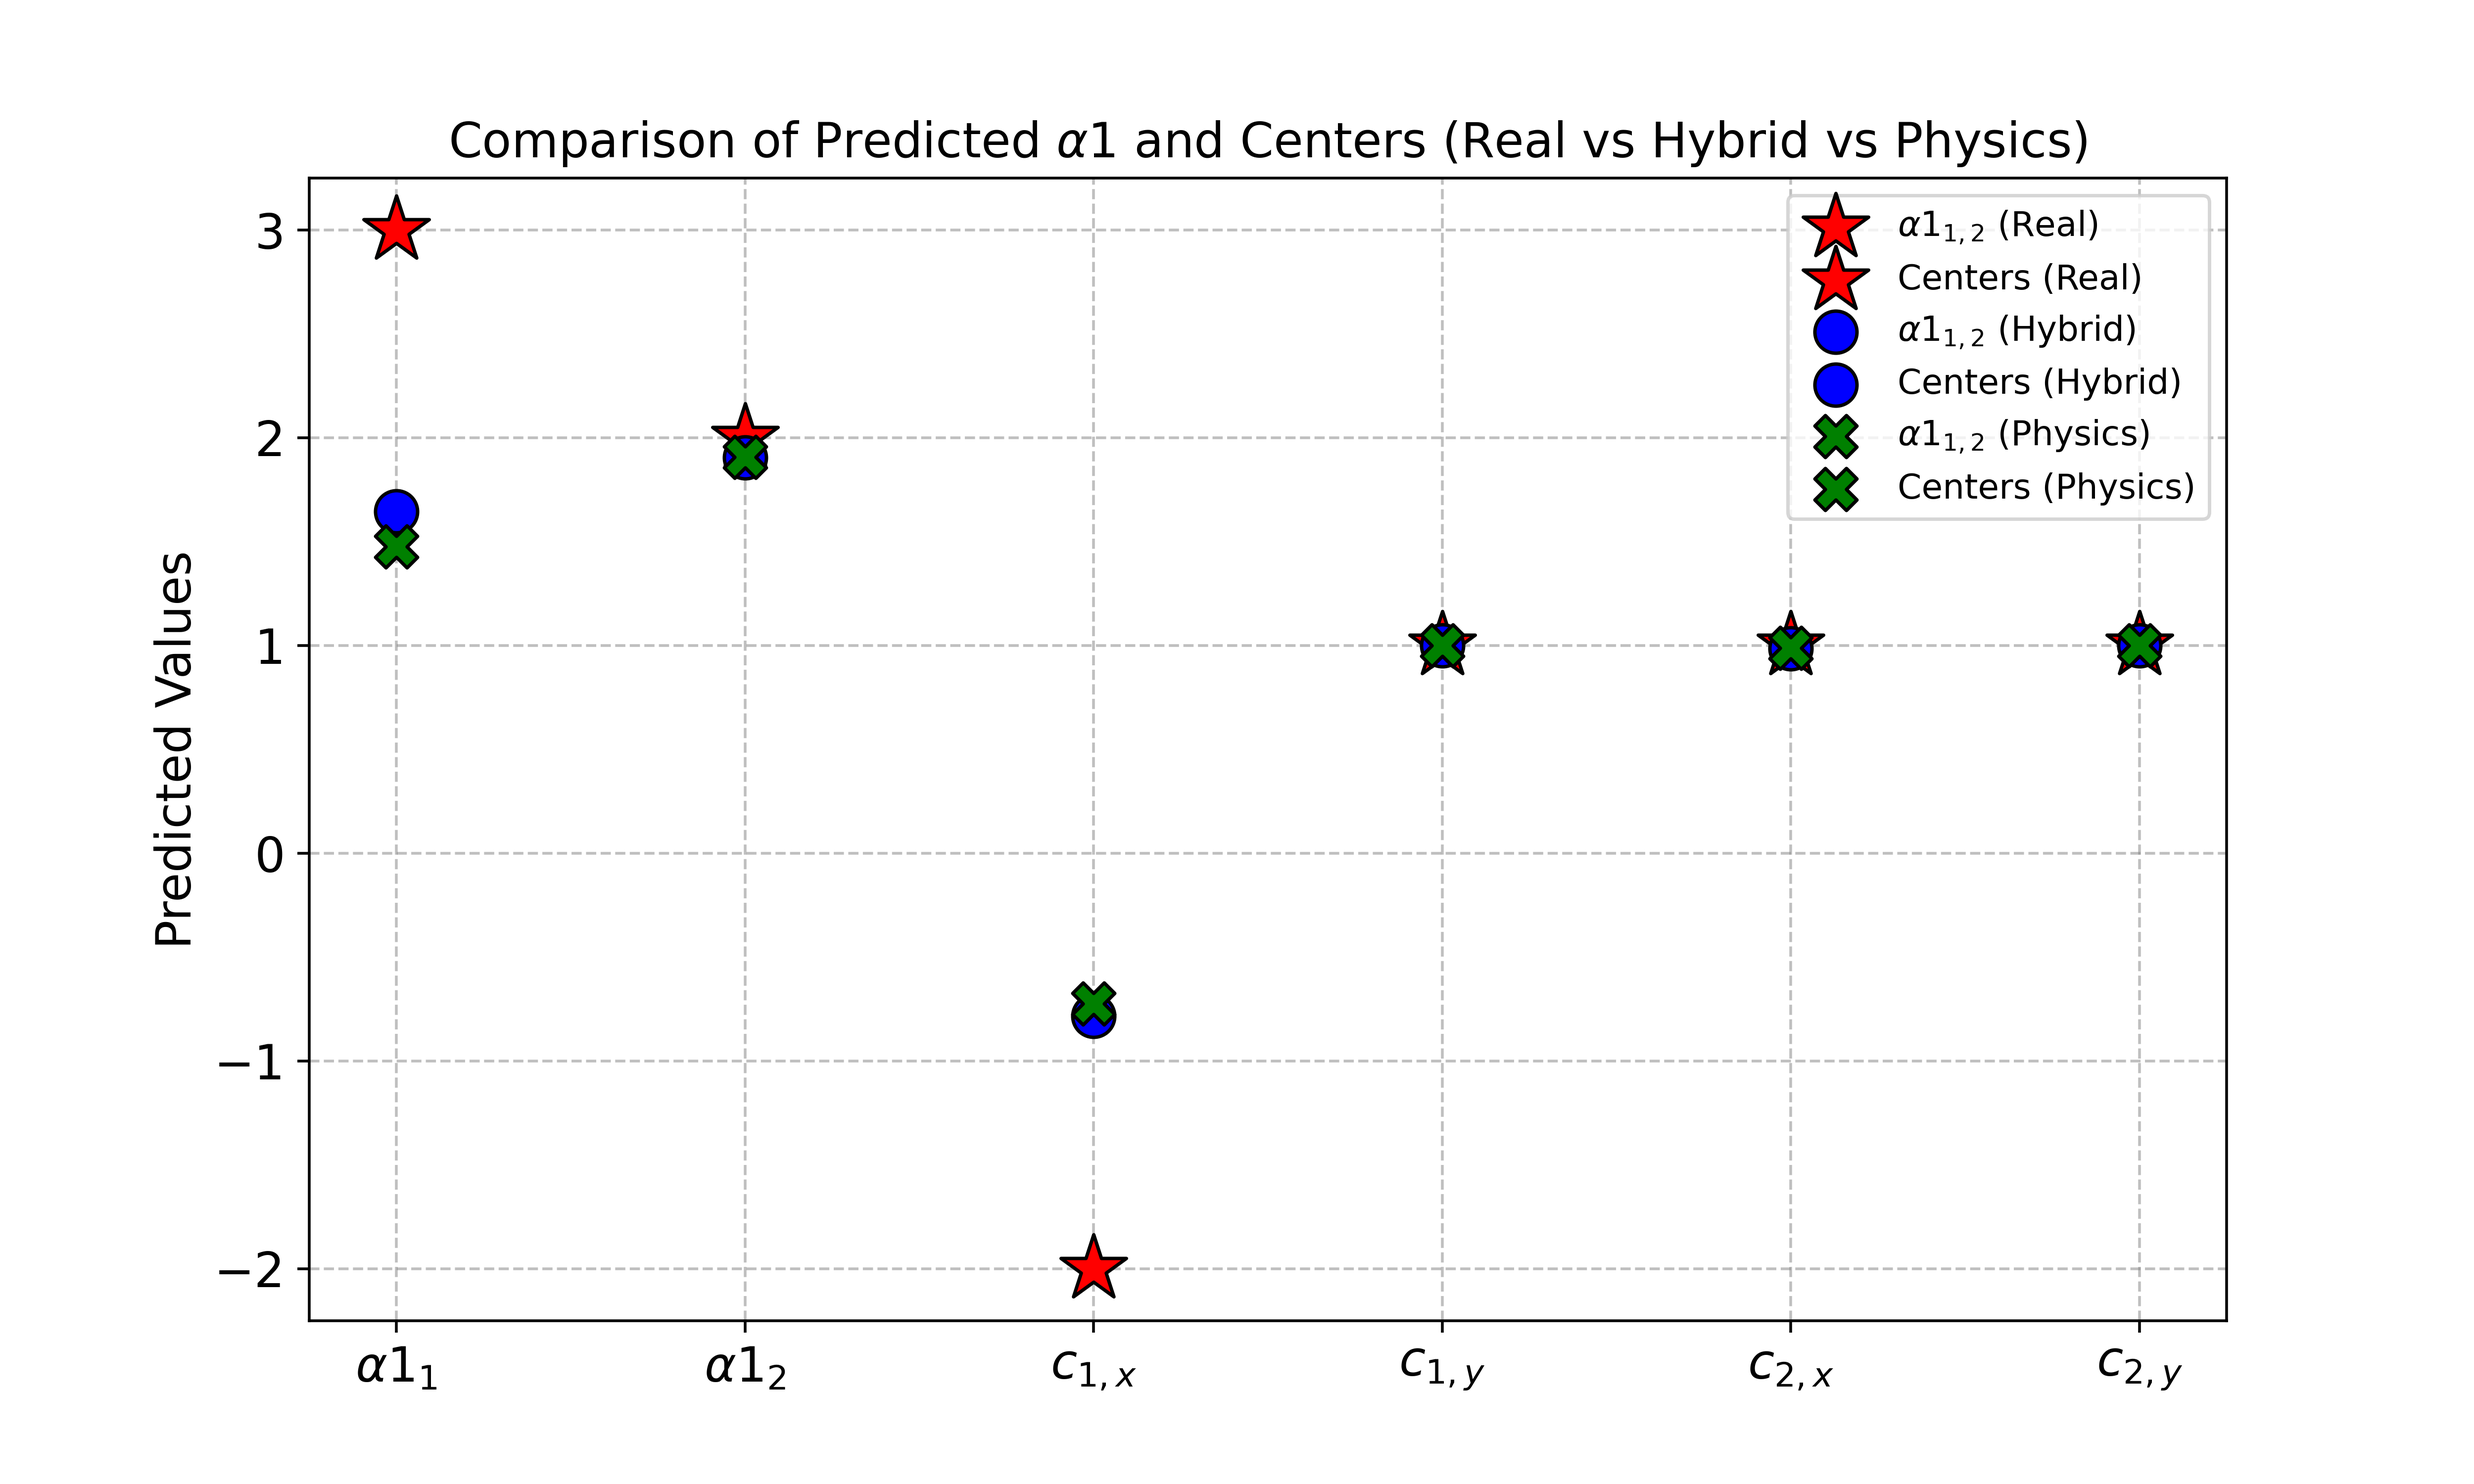
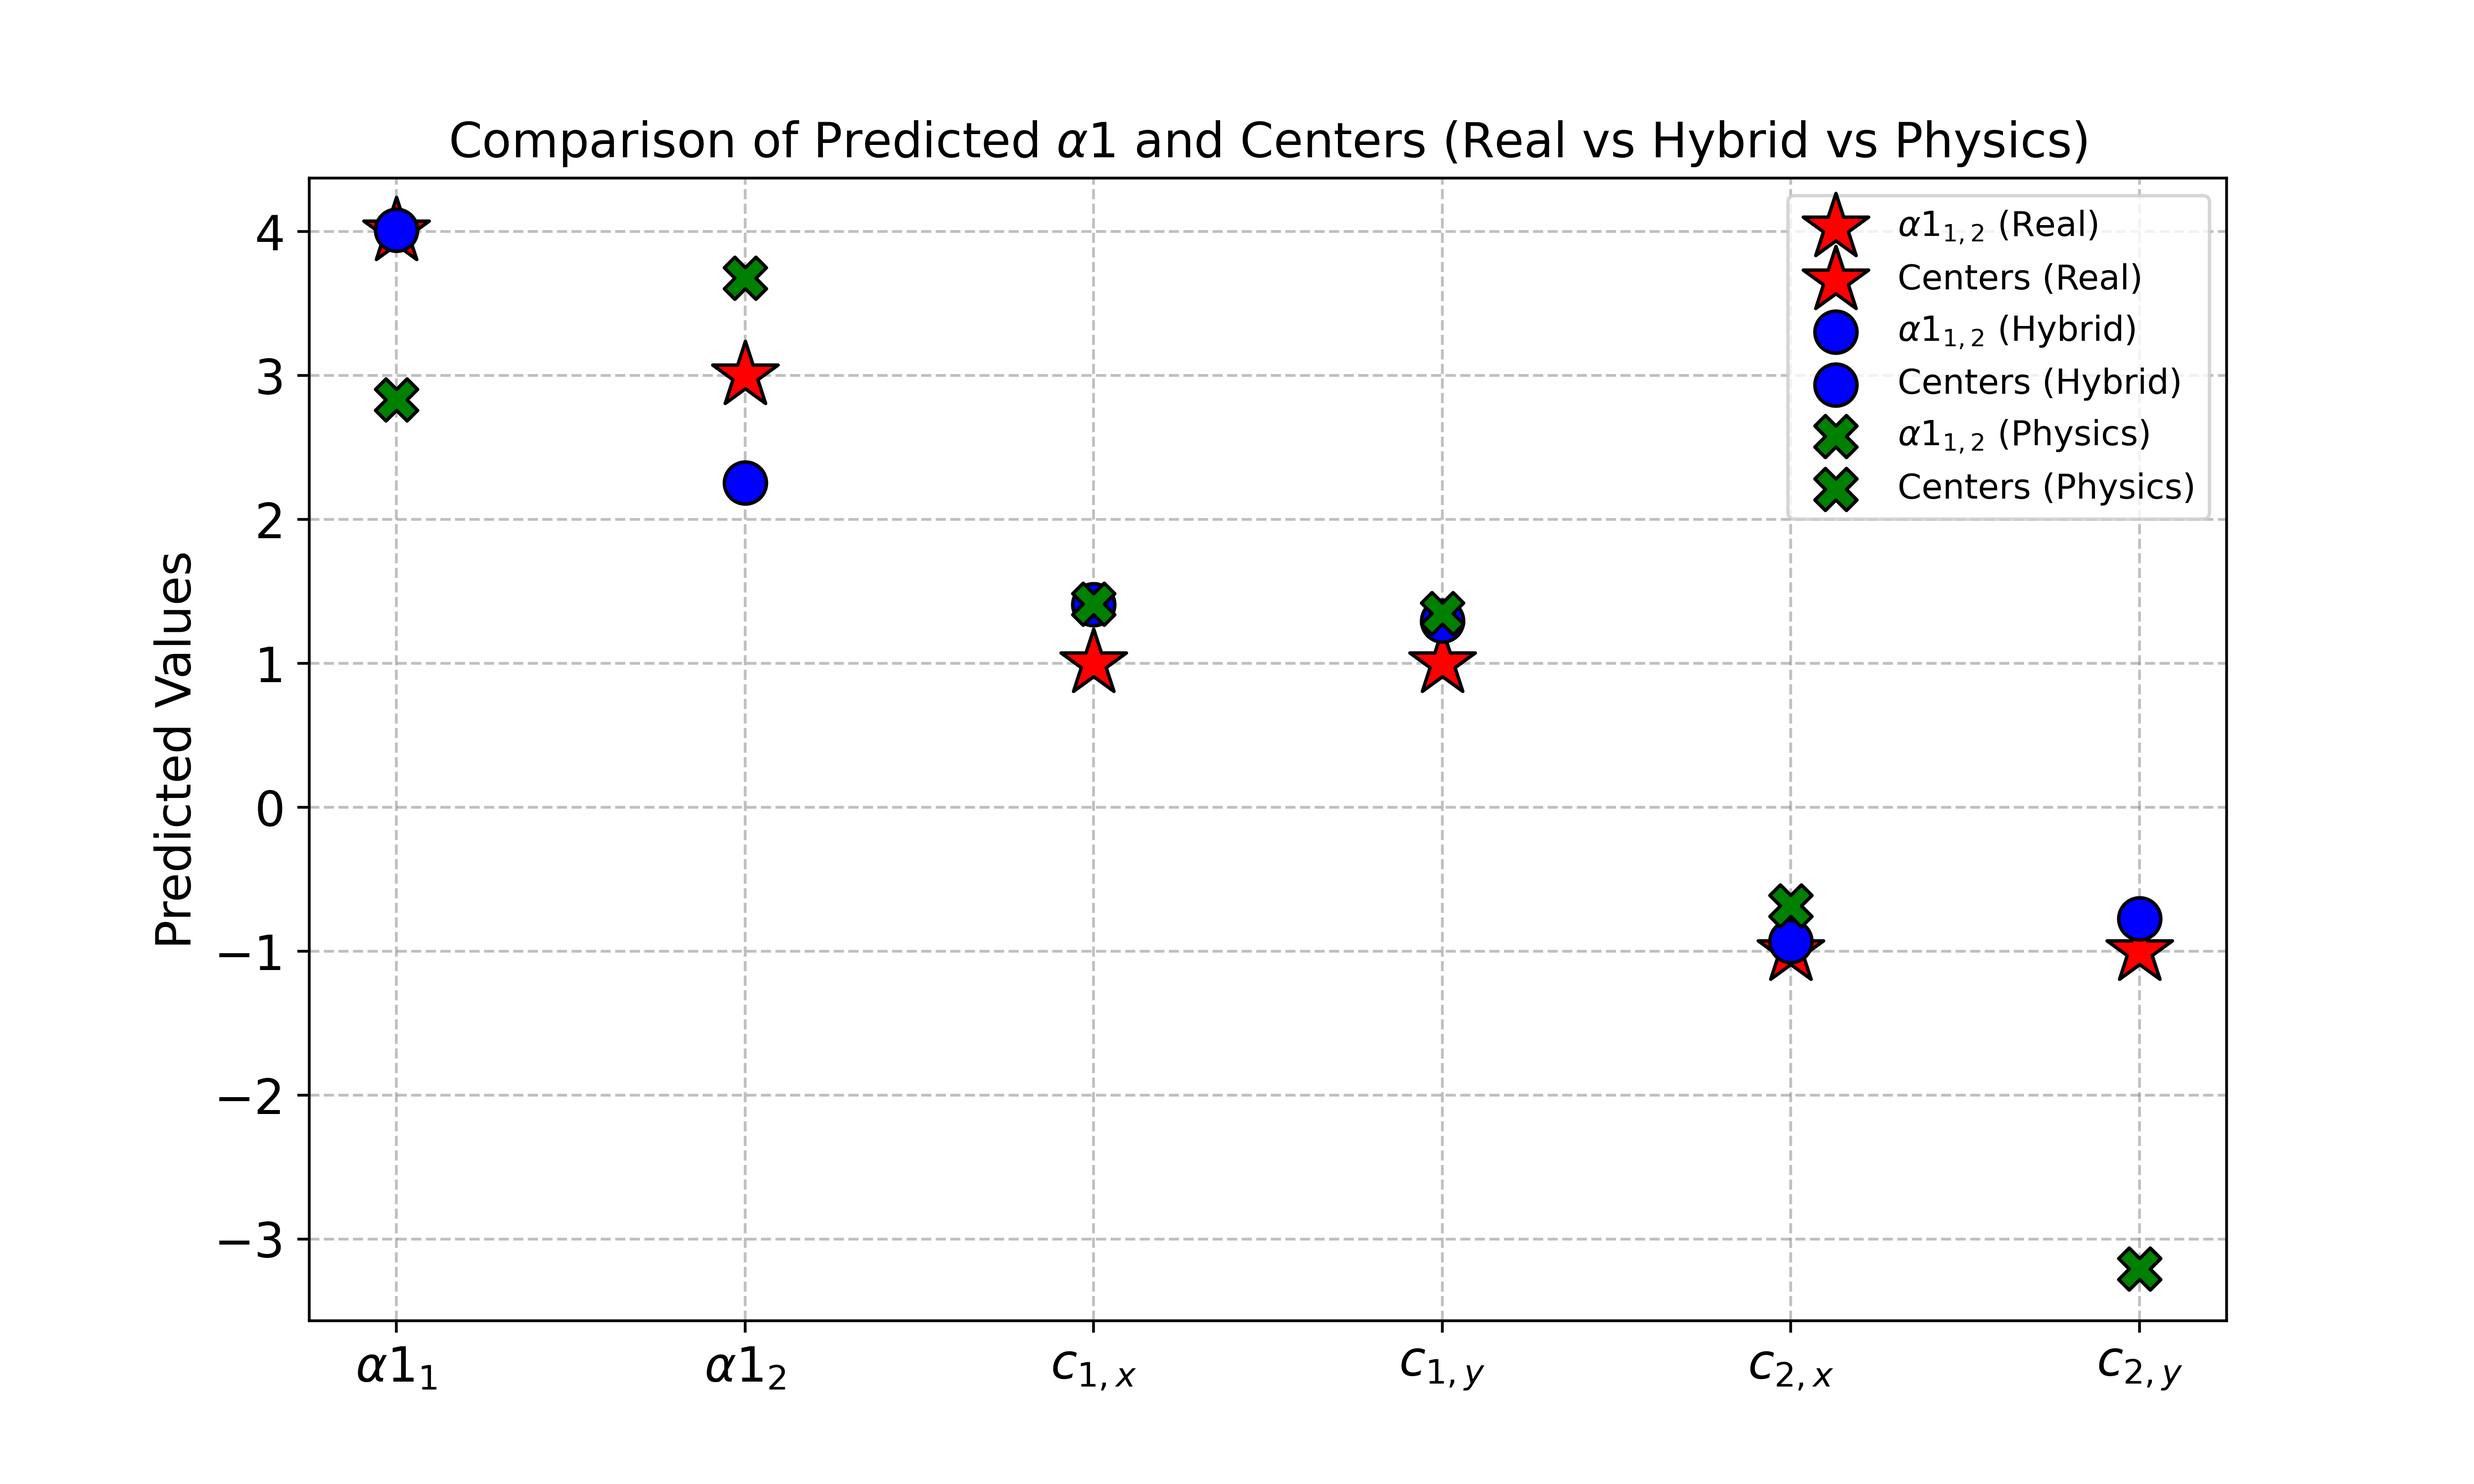
Added compare plot

diff --git a/PLOT.py b/PLOT.py
@@ -176,25 +176,28 @@ def plot_error(param):
 
 
 
-def compare_predictions(param):
+def compare_predictions():
     """
     Compares the predictions of alpha1 (physics, hybrid, real) and centers (physics, hybrid, real) on the same plot.
     """
     # Reshape alpha1 and center values into 3x2 and 3x4 matrices
     
     
+    results_folder_alpha = f'parameters/diffusion/alpha/'
+    results_folder_k = f'parameters/diffusion/k/'
 
-    results_folder = f'parameters/diffusion/{param}/'
+    alpha = load_files(results_folder_alpha)
+    k = load_files(results_folder_k)
 
-    params = load_files(results_folder)
-    alpha1_real = np.array([params[f'{param}_real'][0], params[f'{param}_real'][1]])
-    alpha1_hybrid = np.array([params[f'{param}_hybrid'][0], params[f'{param}_hybrid'][1]])
-    alpha1_phys = np.array([params[f'{param}_phys'][0], params[f'{param}_phys'][1]])
+    alpha1_real = np.array([alpha[f'alpha_real'][0], k[f'k_real'][0]])
+    alpha1_hybrid = np.array([alpha[f'alpha_hybrid'][0], k[f'k_hybrid'][0]])
+    alpha1_phys = np.array([alpha[f'alpha_phys'][0], k[f'k_phys'][0]])
+    
     alpha1_values = np.array([alpha1_real, alpha1_hybrid, alpha1_phys])
 
-    centers_real = np.array(np.concatenate((params[f'{param}_real'][[4,6]], params[f'{param}_real'][[5,7]])))
-    centers_hybrid = np.array(np.concatenate((params[f'{param}_hybrid'][[4,6]], params[f'{param}_hybrid'][[5,7]])))
-    centers_phys = np.array(np.concatenate((params[f'{param}_phys'][[4,6]], params[f'{param}_phys'][[5,7]])))
+    centers_real = np.array(np.concatenate((alpha[f'alpha_real'][1:3], k[f'k_real'][1:3])))
+    centers_hybrid = np.array(np.concatenate((alpha[f'alpha_hybrid'][1:3], k[f'k_hybrid'][1:3])))
+    centers_phys = np.array(np.concatenate((alpha[f'alpha_phys'][1:3], k[f'k_phys'][1:3])))
     centers_values = np.array([centers_real.ravel(), centers_hybrid.ravel(), centers_phys.ravel()])
     
     
@@ -251,12 +254,13 @@ def compare_predictions(param):
     ax.legend()
 
     # Save the plot in the usual folder
-    plt.savefig(f'{results_folder}_{param}_compare_predictions.png', dpi=500)
+    plt.savefig(f'parameters/diffusion/compare_predictions.png', dpi=500)
 
 params = "alpha"
 
 
 plot_gaussians(params)
 plot_error(params)
+compare_predictions()
 
 
